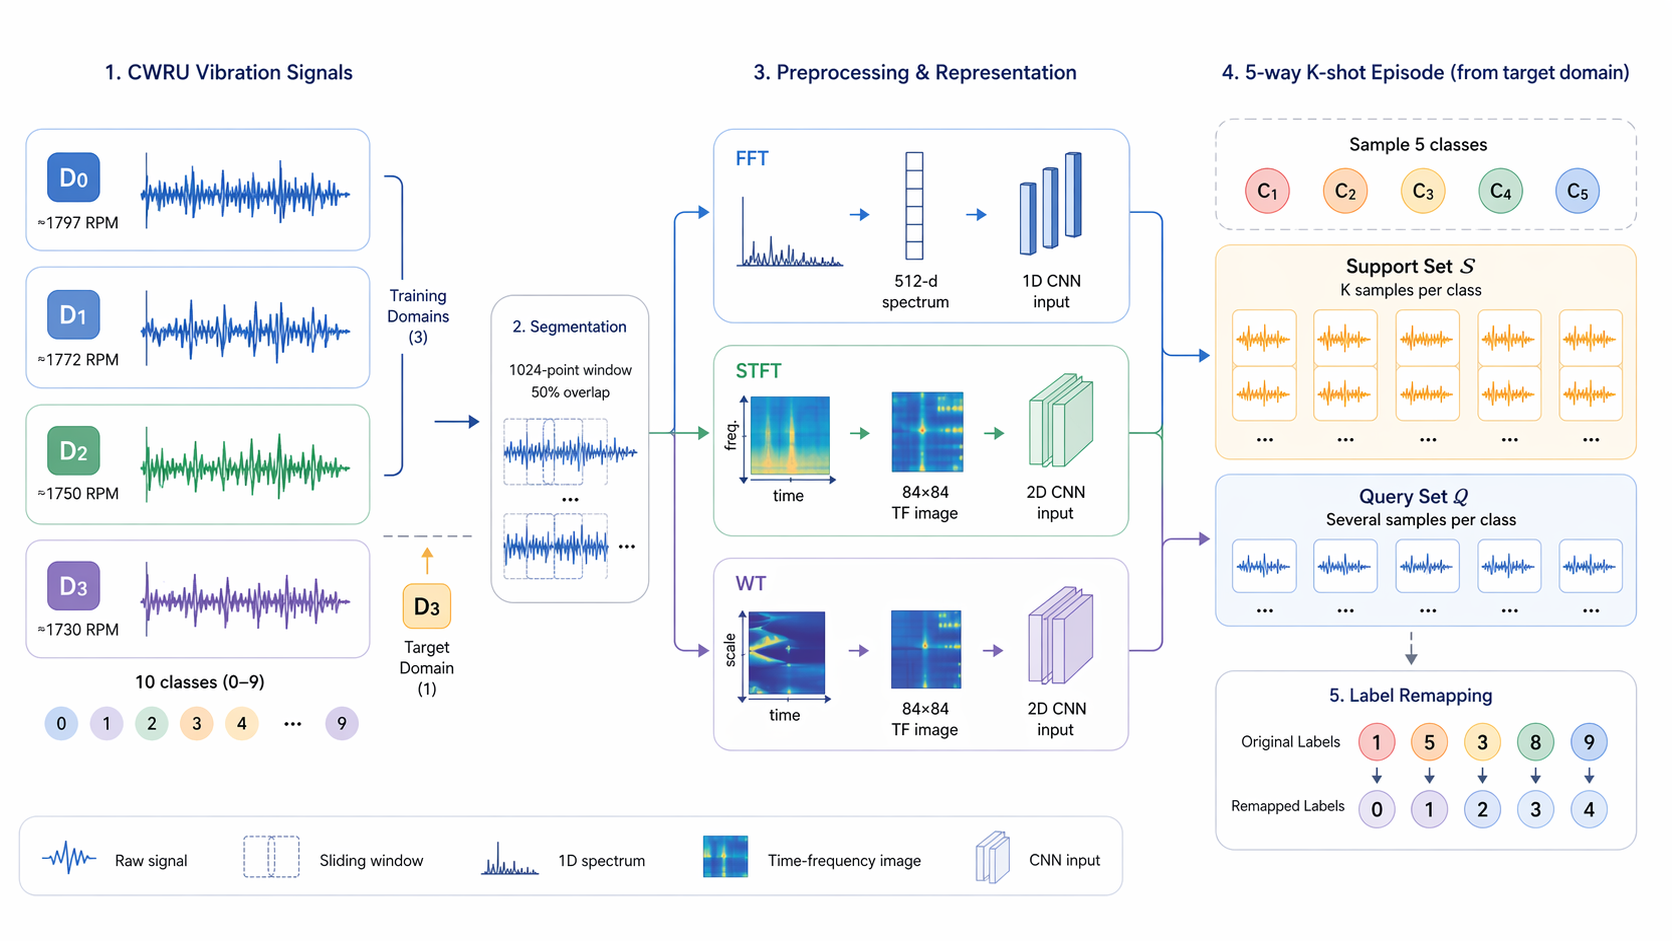
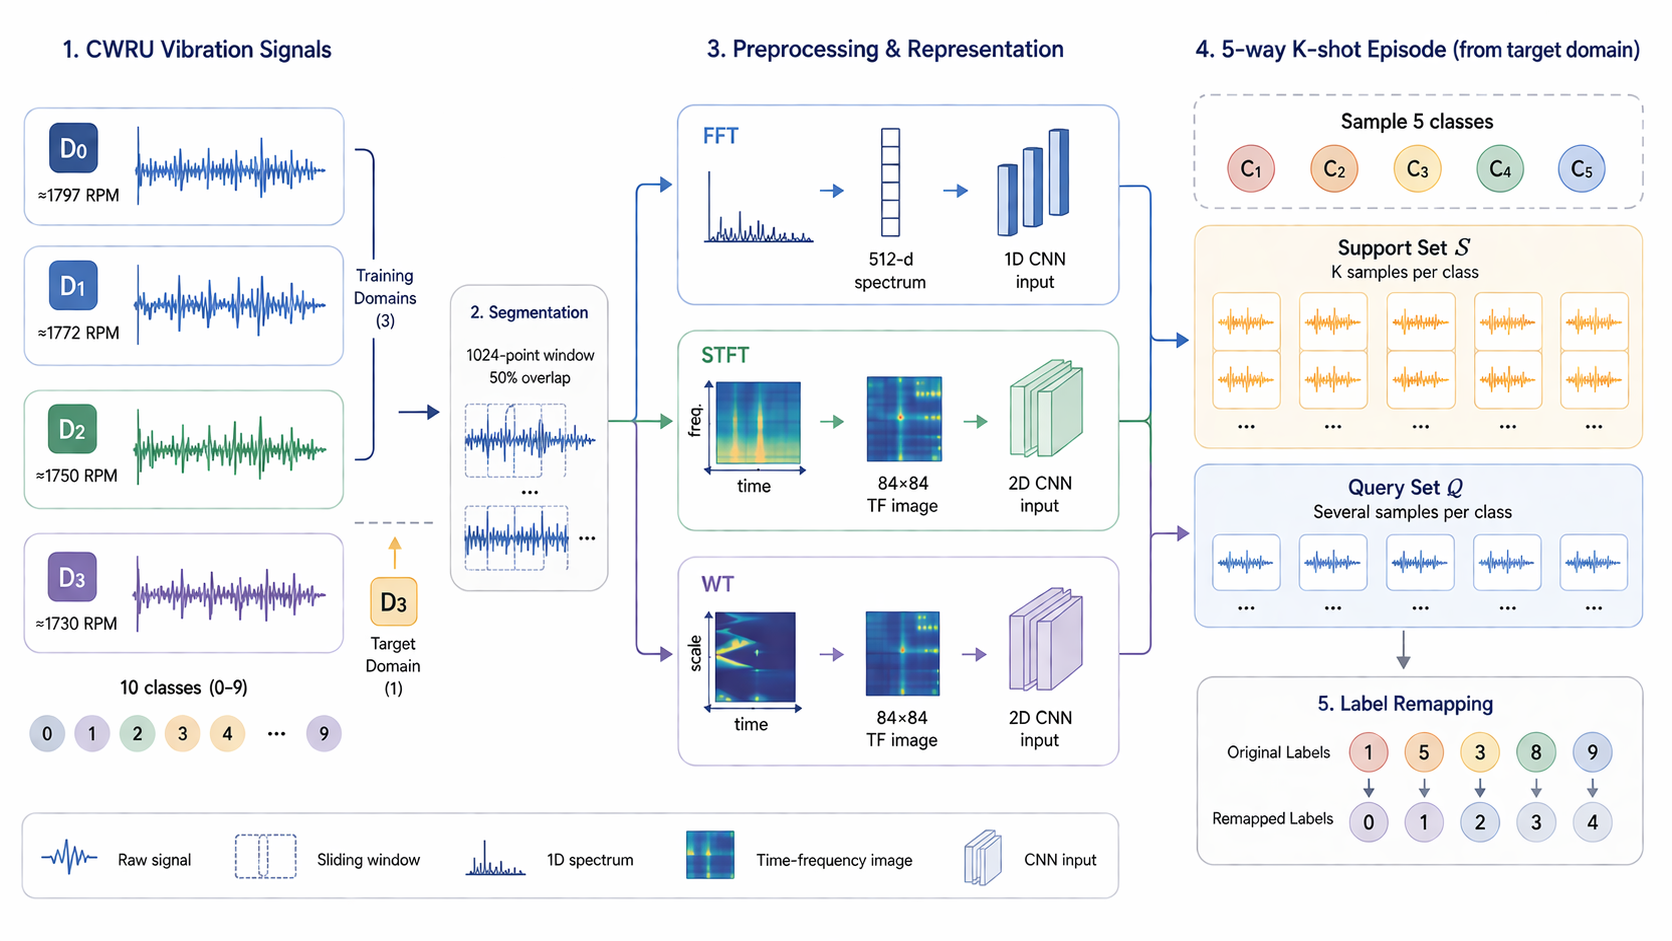
更新图表文件和论文内容

diff --git a/paper.md b/paper.md
@@ -389,7 +389,7 @@ $$
 
 **评价指标。** 本文以查询集分类准确率作为主要性能指标，用正确预测样本数占查询集样本总数的比例表示：
 
-$$ \mathrm{Acc} = \frac{1}{|\mathcal{Q}|}\sum_{i=1}^{|\mathcal{Q}|}\mathbf{1}(\hat{y}_i=y_i) \tag{式4-6} $$
+$$ \mathrm{Acc} = \frac{1}{|\mathcal{Q}|}\sum_{i=1}^{|\mathcal{Q}|}\mathbf{1}(\hat{y}_i=y_i) $$
 
 当实验在不同随机种子或多轮独立运行下重复执行时，本文对 $R$ 次实验结果计算平均值和样本标准差：
 
@@ -663,10 +663,6 @@ INT8 量化的时延收益呈现非对称结果。FFT+ProtoNet+5-shot 的 prune_
 请求进入后端后，预测器首先从负载中解析原始振动序列及关联元信息，再依据当前摘要文件所绑定的实验配置确定预处理方式。这一自动匹配机制确保在线推理的信号表示与部署工件在训练阶段使用的输入格式保持一致：若切换部署模型，预处理方式也随之同步更新，不会出现模型已切换而预处理仍停留在旧配置的状态。预处理完成后，特征张量被送入推理会话，由指定运行后端执行前向计算，并返回预测类别、置信度及各阶段时延。
 
 模型输出生成后，系统进入结果后处理阶段：历史存储模块以追加方式保存本次诊断记录；告警判定逻辑检查预测类别与置信度是否满足阈值条件，若满足则同步写入告警存储；服务统计模块对预处理时延、推理时延与端到端时延分别累积，供后续通过 `/system/stats` 接口查询均值。最后，封装后的诊断消息经 WebSocket 管理器广播至所有已连接的浏览器客户端，前端界面的实时曲线、历史表格与告警区域随之同步刷新。由此，系统实现了"信号输入—预处理—模型推理—类别输出—结果记录—界面更新"的在线推理闭环。
-
-图6-1给出了上述在线推理闭环在一次请求中的主要时序关系。
-
-![fig6_1_online_inference_sequence](</D:/Desktop/MAML-Edge/Chart/图6-1在线推理流程时序图.png>)
 
 ### 6.3 系统性能验证
 
